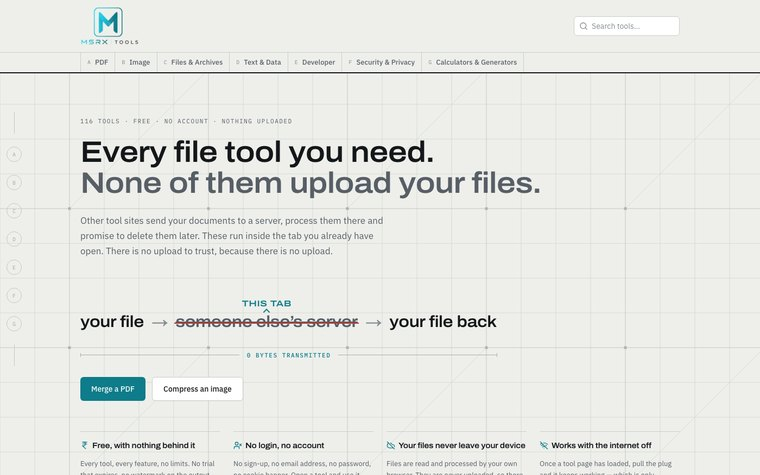
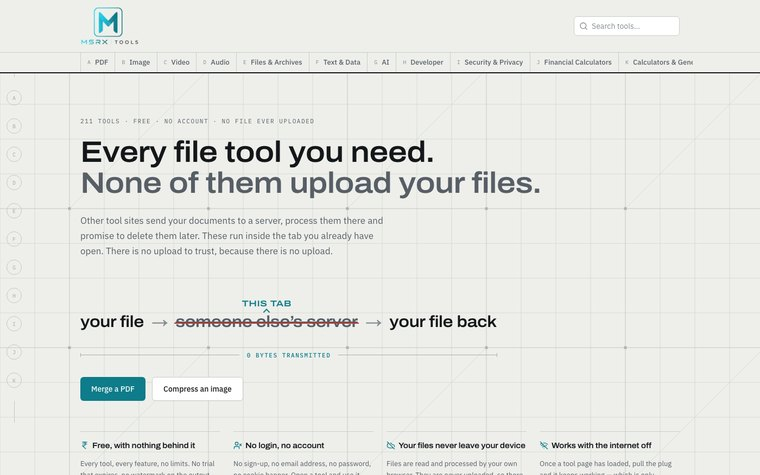
MSRX Tools is at 211 now, not 116
Video, audio, AI writing and financial calculators all landed since the
gallery was built. New screenshot, and the privacy line is now the exact
one: no FILE is ever uploaded, with the AI tools named as the exception.

Changed region(s): [[0.2118, 0.1179, 0.9079, 0.1474], [0.3632, 0.2358, 0.4237, 0.2653]]

diff --git a/README.md b/README.md
@@ -17,14 +17,14 @@ Software engineer in Bengaluru. I build these because I enjoy building them — 
 
 |  |  |  |
 |:--:|:--:|:--:|
-| <a href="https://tools.msrx.co.in"><img src="apps/tools.jpg" width="270" alt="MSRX Tools — 116 tools, nothing uploaded"></a><br><a href="https://tools.msrx.co.in"><b>MSRX Tools</b></a><br><sub>116 tools, nothing uploaded</sub> | <a href="https://lab.msrx.co.in"><img src="apps/lab.jpg" width="270" alt="JEE HyperLab — 204 live PCM simulations"></a><br><a href="https://lab.msrx.co.in"><b>JEE HyperLab</b></a><br><sub>204 live PCM simulations</sub> | <a href="https://story.msrx.co.in"><img src="apps/story.jpg" width="270" alt="MSRX StoryQuest — 222 STEM missions, classes 1–10"></a><br><a href="https://story.msrx.co.in"><b>MSRX StoryQuest</b></a><br><sub>222 STEM missions, classes 1–10</sub> |
+| <a href="https://tools.msrx.co.in"><img src="apps/tools.jpg" width="270" alt="MSRX Tools — 211 tools, no file ever uploaded"></a><br><a href="https://tools.msrx.co.in"><b>MSRX Tools</b></a><br><sub>211 tools, no file ever uploaded</sub> | <a href="https://lab.msrx.co.in"><img src="apps/lab.jpg" width="270" alt="JEE HyperLab — 204 live PCM simulations"></a><br><a href="https://lab.msrx.co.in"><b>JEE HyperLab</b></a><br><sub>204 live PCM simulations</sub> | <a href="https://story.msrx.co.in"><img src="apps/story.jpg" width="270" alt="MSRX StoryQuest — 222 STEM missions, classes 1–10"></a><br><a href="https://story.msrx.co.in"><b>MSRX StoryQuest</b></a><br><sub>222 STEM missions, classes 1–10</sub> |
 | <a href="https://planner.msrx.co.in"><img src="apps/planner.jpg" width="270" alt="MSRX Planner — A student workspace that plans the week"></a><br><a href="https://planner.msrx.co.in"><b>MSRX Planner</b></a><br><sub>A student workspace that plans the week</sub> | <a href="https://weather.msrx.co.in"><img src="apps/weather.jpg" width="270" alt="MSRX WeatherWatch — 15 hazard engines behind one API"></a><br><a href="https://weather.msrx.co.in"><b>MSRX WeatherWatch</b></a><br><sub>15 hazard engines behind one API</sub> | <a href="https://pulsenet.msrx.co.in"><img src="apps/pulsenet.jpg" width="270" alt="OrionPulseNet — Speed tests and 16 network tools"></a><br><a href="https://pulsenet.msrx.co.in"><b>OrionPulseNet</b></a><br><sub>Speed tests and 16 network tools</sub> |
 | <a href="https://cv.msrx.co.in"><img src="apps/cv.jpg" width="270" alt="IncognitoCV — Score a CV without uploading it"></a><br><a href="https://cv.msrx.co.in"><b>IncognitoCV</b></a><br><sub>Score a CV without uploading it</sub> | <a href="https://graph.msrx.co.in"><img src="apps/graphiq.jpg" width="270" alt="MSRX GraphIQ — Spreadsheet in, 2D and 3D charts out"></a><br><a href="https://graph.msrx.co.in"><b>MSRX GraphIQ</b></a><br><sub>Spreadsheet in, 2D and 3D charts out</sub> | <a href="https://canvas.msrx.co.in"><img src="apps/canvasiq.jpg" width="270" alt="MSRX CanvasIQ — Draw it flat, stand it up"></a><br><a href="https://canvas.msrx.co.in"><b>MSRX CanvasIQ</b></a><br><sub>Draw it flat, stand it up</sub> |
 | <a href="https://qr.msrx.co.in"><img src="apps/qrstudio.jpg" width="270" alt="MSRX QR Studio — QR codes with scan-health scoring"></a><br><a href="https://qr.msrx.co.in"><b>MSRX QR Studio</b></a><br><sub>QR codes with scan-health scoring</sub> | <a href="https://meeting.msrx.co.in"><img src="apps/meeting.jpg" width="270" alt="MSRX Meeting — Encrypted rooms, no server in the middle"></a><br><a href="https://meeting.msrx.co.in"><b>MSRX Meeting</b></a><br><sub>Encrypted rooms, no server in the middle</sub> | <a href="https://gantt.msrx.co.in"><img src="apps/gantt.jpg" width="270" alt="Easy-Peasy Gantt — One schedule, no platform to adopt"></a><br><a href="https://gantt.msrx.co.in"><b>Easy-Peasy Gantt</b></a><br><sub>One schedule, no platform to adopt</sub> |
 
 | App | What it does |
 |---|---|
-| **[MSRX Tools](https://tools.msrx.co.in)** | 116 file, image and text tools — merge PDFs, convert images, zip archives, encrypt a file. Every one runs inside your browser, so nothing is ever uploaded. |
+| **[MSRX Tools](https://tools.msrx.co.in)** | 211 tools for files, images, video, audio, text, money and code. No file is ever uploaded — every file tool reads it on your device. The AI writing tools are the one exception, and say so. |
 | **[JEE HyperLab](https://lab.msrx.co.in)** | 204 interactive Physics, Chemistry and Maths simulations for IIT-JEE. Each is its own engine, not a template with swapped constants. |
 | **[MSRX StoryQuest](https://story.msrx.co.in)** | 222 STEM missions for classes 1–10 where the answer is solved from a real equation, never authored to fit the story. |
 | **[MSRX Planner](https://planner.msrx.co.in)** | An academic workspace that plans the week with the student. Offline-first — writes queue locally and reconcile on reconnect. |
